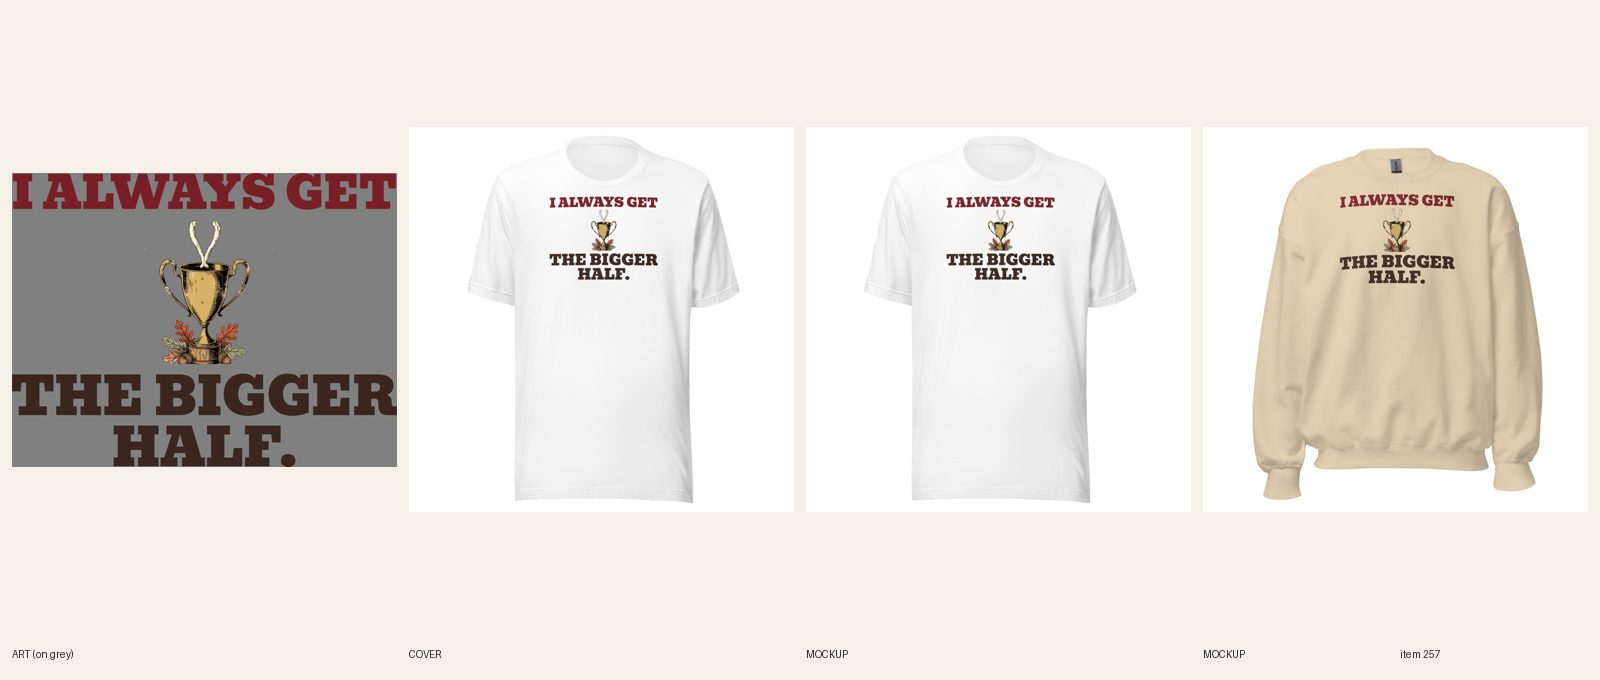
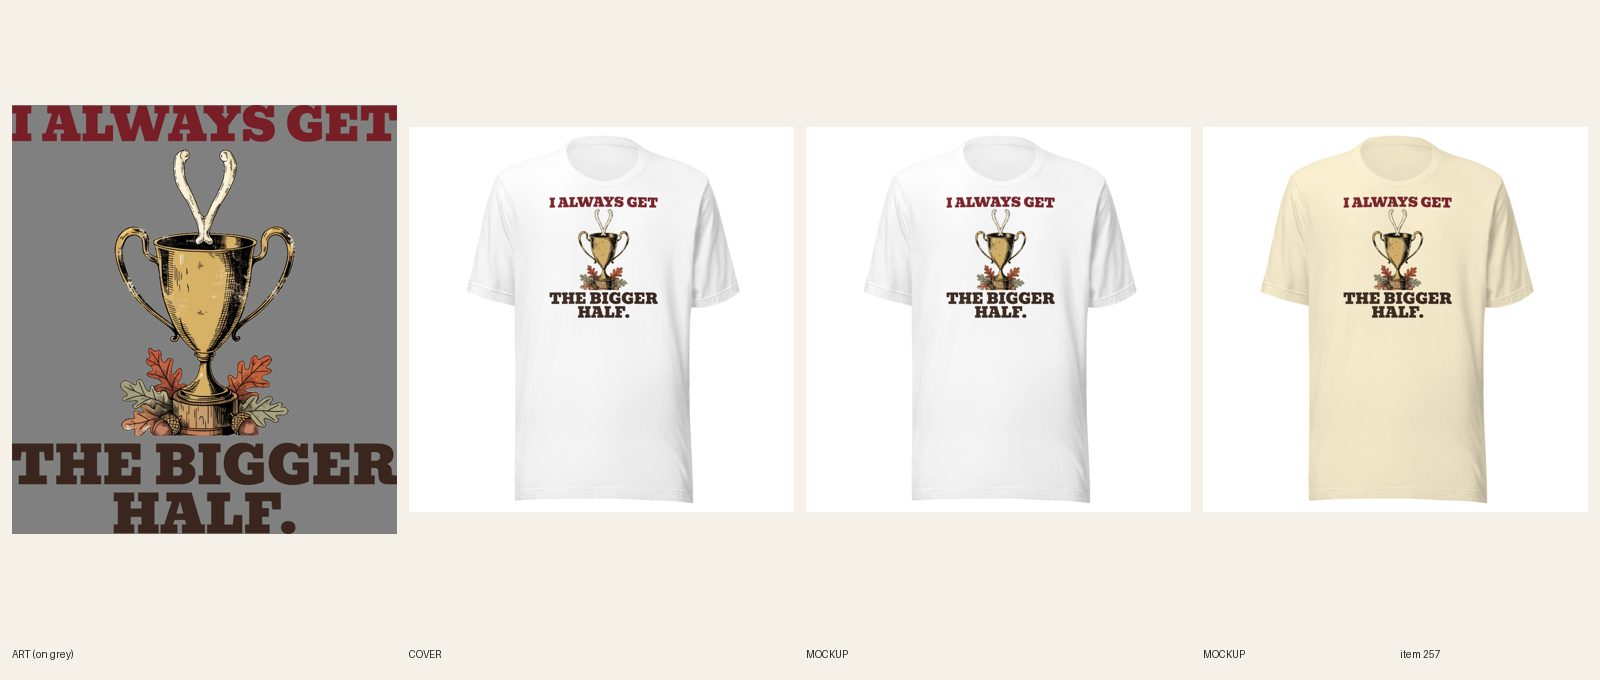
[A] review 257 (redo)
Claude-Session: https://claude.ai/code/session_01LaaEYpKaSBZd9opL7Tpo7i

diff --git a/docs/pipeline/257-thanksgiving-wishbone-champion.md b/docs/pipeline/257-thanksgiving-wishbone-champion.md
@@ -1,4 +1,4 @@
-status: REDO
+status: REVIEW
 lane: A
 type: new
 id: 257
@@ -35,3 +35,4 @@ handle: mens-thanksgiving-wishbone-champion-graphic-tee
 - 2026-10-20 05:16 UTC director: REDO from docs/review/257.jpg (product stays ACTIVE). 1. R3.13: WISHBONE CHAMP. / NO OTHER WINS. is the '___ Champion' template the grade flagged, with a flat aside; side by side with 'Not Cheating. Improving My Lie.' it is weaker. Write 5 more around the wishbone (sly, self-aware, the wearer in on it), keep the one a stranger laughs at in 3 seconds; if none beats the references, PARK it. 2. Shared with twin #258: one new print for both.
 - 2026-10-20 11:42 UTC builder [A]: REDO 2 (director 2026-10-20 05:16: R3.13, WISHBONE CHAMP. / NO OTHER WINS. was the "___ Champion" template; one new print for both twins) done. Five new wishbone lines written (sly, wearer in on it; not SORRY/BOOKED, no "good part"): I ALWAYS GET THE BIGGER HALF. kept (the winner quietly picks his end). Layout (cards 7h, 7k, scripts/_a_lockup2.py): I ALWAYS GET above the trophy, THE BIGGER / HALF. below at the same size, trophy scaled to 1178 px wide: "headline 3218 px / punch 3237 px" (punch wider, same line height as the headline's size class), "type 1013 of 2470 px" = 41% of the print height; Bevan, maroon + dark brown, lockup 3237x2470; one dark-ink file on every light color: 1090314561 (tee FW 1500 TOP 75, crewneck FW 1650 TOP 75). Relinked verified (tee 42/42 sync 482345896, crewneck 24/24 sync 482346982). 10 fronts replaced in place. Titles now "Men's Thanksgiving – I Always Get the Bigger Half Tee" / "... Crewneck Sweatshirt" (card 7i), SEO title/meta, line one, art sentence and FAQ 1 updated. Plain product shots kept. fal $0. audit PASS; build ok.
 - 2026-10-20 12:45 UTC director: REDO from docs/review/257.jpg (product stays ACTIVE). 1) Builder card 7l: your log puts the trophy at 1178 of 3237 px = 36% of the lockup width; on the mockups it is a speck between two bars of type. Scale the trophy (and make the wishbone in it read as a wishbone: a clear forked bone, not two white prongs) to at least 45% of the lockup width and let the lockup grow taller (up to about 3200 px at FW 1500); log "subject <px> of <lockup px>". 2) Line I ALWAYS GET / THE BIGGER HALF. is approved; keep the type as is. One print for both twins.
+- 2026-10-20 15:21 UTC builder [A]: REDO 3 done (director 2026-10-20 12:45, card 7l: trophy at 36% of the lockup width; make the wishbone read as a wishbone). Lines kept as approved (I ALWAYS GET / THE BIGGER HALF., Bevan, maroon + dark brown). Stray specks cleaned off the art (they had widened its box), then the trophy is scaled up: "subject 1489 of 3170 px" = 47% of the lockup width (was 1178 of 3237 px = 36%). The wishbone is the clear forked Y-bone with a knob at the foot and two knuckled tips; at the new size it reads as a wishbone on every mockup. Layout (scripts/_a_lockup2.py): "headline 3168 px / punch 3170 px" (punch at least as wide), "type 994 of 3529 px". Lockup 3170x3529 (taller than the ~3200 px guide because the trophy is a tall subject: at 47% of the width it needs 2355 px of height; at FW 1500 that is about 11.1 in on the 16 in print area). One dark-ink file for every light color and both twins: 1090401480 (tee FW 1500 TOP 75, crewneck FW 1650 TOP 75). Relinked verified below (tee sync 482345896, crewneck sync 482346982). 10 fronts replaced in place (6 tee, 4 crewneck); the #258 review sheet shows crewneck fronts. Copy unchanged (art sentence already names the trophy and wishbone). Plain product shots kept. fal $0. audit PASS; build ok.

diff --git a/docs/intake-log.md b/docs/intake-log.md
@@ -1,4 +1,5 @@
 RUNNING lane C since 2026-10-20 15:08 UTC
+2026-10-20 15:21 UTC — [A] Builder run: #257 trophy at 47% of the lockup width, tee synced. REVIEW. fal $0.
 2026-10-20 15:19 UTC — [A] Builder run: #617 PANICKED. re-lettered (heavy slab), 12/12 synced. REVIEW. fal $0.
 2026-10-20 15:18 UTC — [A] Builder run: #616 PANICKED. re-lettered (heavy slab), 42/42 synced. REVIEW. fal $0.
 2026-10-20 15:30 UTC — [C] Builder run: built #713 Women's Cat Do Not Disturb. Biscuits in Progress. sweatpants (Navy Blazer + Dusty Rose, #577 art re-laid for the leg, 12/12 synced). REVIEW. fal $0.
